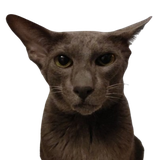
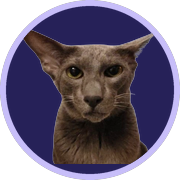
fix: update payment date handling and validation, improve UI elements

diff --git a/validators.js b/validators.js
@@ -50,12 +50,14 @@ export const amount = (v) => {
   return Number.isInteger(n) && n > 0 && n <= 1_000_000;
 };
 
-// now передаётся явно, чтобы поведение не зависело от часов машины при проверке.
+// Дата в формате YYYY-MM-DD. now передаётся явно, чтобы поведение не зависело
+// от часов машины при проверке.
 export const paidAt = (v, now = Date.now()) => {
-  const t = Date.parse(v);
+  if (!/^\d{4}-\d{2}-\d{2}$/.test(String(v ?? ''))) return false;
+  const t = Date.parse(`${v}T00:00:00+03:00`); // дата означает московский день
   if (Number.isNaN(t)) return false;
   const YEAR = 365 * 24 * 3600 * 1000;
-  return t <= now + 24 * 3600 * 1000 && t > now - YEAR; // допускаем сутки на часовые пояса
+  return t <= now + 24 * 3600 * 1000 && t > now - YEAR; // сутки запаса на часовые пояса
 };
 
 export const imageFile = ({ type, size }) =>
@@ -73,7 +75,7 @@ export function validate(type, d, now = Date.now()) {
     if (!amount(d.amount)) e.amount = 'Целое число кредитов больше нуля';
     if (!paymentMethod(d.payment_method)) e.payment_method = 'Выберите способ оплаты';
     else if (!acceptsForm(d.payment_method)) e.payment_method = 'По этому способу оплаты обратитесь в поддержку платёжной системы';
-    if (!paidAt(d.paid_at, now)) e.paid_at = 'Укажите дату и время платежа';
+    if (!paidAt(d.paid_at, now)) e.paid_at = 'Укажите дату платежа';
   } else {
     e.type = 'Неизвестный тип заявки';
   }

diff --git a/api/submit.js b/api/submit.js
@@ -91,7 +91,7 @@ const caption = (row) => {
           `🟡 <b>НЕ ПРИШЁЛ ДОНАТ · #${row.id}</b>`,
           `Сумма: <b>${esc(row.amount)}</b> кредитов`,
           `Оплата: ${esc(row.payment_method)}`,
-          `Когда: ${new Date(row.paid_at).toLocaleString('ru-RU', { timeZone: 'Europe/Moscow' })} МСК`,
+          `Дата: ${new Date(row.paid_at).toLocaleDateString('ru-RU', { timeZone: 'Europe/Moscow' })} (МСК)`,
         ];
 
   lines.push(
@@ -178,7 +178,9 @@ export default async function handler(request) {
       reason: type === 'privilege' ? data.reason : null,
       amount: type === 'donate' ? Number(data.amount) : null,
       payment_method: type === 'donate' ? data.payment_method : null,
-      paid_at: type === 'donate' ? new Date(data.paid_at).toISOString() : null,
+      // Дата приходит без времени и означает московский день - закрепляем это
+      // смещением, иначе UTC сдвинет её на сутки назад.
+      paid_at: type === 'donate' ? new Date(`${data.paid_at}T00:00:00+03:00`).toISOString() : null,
       comment: data.comment?.trim() || null,
       screenshot_url: hasFile ? await upload(file, type) : null,
       ip_hash: ipHash,

diff --git a/index.html b/index.html
@@ -6,6 +6,8 @@
 <title>GambitRP - Помощь игрокам</title>
 <meta name="description" content="Заявки на возврат привилегии и по непришедшему донату GambitRP.">
 <meta name="color-scheme" content="dark">
+<link rel="icon" href="avatar.png" type="image/png" sizes="180x180">
+<link rel="apple-touch-icon" href="avatar.png">
 <link rel="preconnect" href="https://fonts.googleapis.com">
 <link rel="preconnect" href="https://fonts.gstatic.com" crossorigin>
 <link rel="stylesheet" href="https://fonts.googleapis.com/css2?family=JetBrains+Mono:wght@400;600&family=Montserrat:wght@400;500;600;700;800&display=swap">
@@ -171,8 +173,9 @@
         </div>
 
         <div class="field">
-          <label class="label" for="d-paid">Дата и точное время платежа</label>
-          <input id="d-paid" name="paid_at" type="datetime-local">
+          <label class="label" for="d-paid">Дата платежа</label>
+          <p class="hint">По московскому времени.</p>
+          <input id="d-paid" name="paid_at" type="date">
           <small class="err"></small>
         </div>
 

diff --git a/styles.css b/styles.css
@@ -67,13 +67,12 @@ body {
   text-decoration: none;
 }
 
+/* Круг, кольцо и подложка вшиты в саму картинку - она же служит фавиконкой,
+   поэтому фон и рамка здесь не нужны. */
 .mark-badge {
   width: 40px;
   height: 40px;
-  border-radius: 50%;
-  background: var(--accent);
-  object-fit: cover;
-  border: 1px solid var(--border);
+  object-fit: contain;
 }
 
 .mark-text {
@@ -264,7 +263,7 @@ h3 {
 
 input[type="text"],
 input[type="number"],
-input[type="datetime-local"],
+input[type="date"],
 input[type="file"],
 select,
 textarea {
@@ -297,6 +296,10 @@ select {
 option { background: var(--surface-2); color: var(--text); }
 
 input[type="file"] { padding: 9px 12px; cursor: pointer; }
+
+/* Без этого поле даты в WebKit сжимается по содержимому и стоит огрызком. */
+input[type="date"] { min-height: 46px; cursor: pointer; }
+input[type="date"]::-webkit-calendar-picker-indicator { cursor: pointer; filter: invert(0.75); }
 
 input[type="file"]::file-selector-button {
   margin-right: 12px;

diff --git a/app.js b/app.js
@@ -31,6 +31,11 @@ copyButton.addEventListener('click', async () => {
   }
 });
 
+// ── Дата платежа: не позже сегодняшнего дня по Москве ─────────────────
+// en-CA даёт ровно тот формат ГГГГ-ММ-ДД, который ждёт input[type=date].
+$('#d-paid').max = new Intl.DateTimeFormat('en-CA', { timeZone: 'Europe/Moscow' })
+  .format(new Date());
+
 // ── Заполняем списки из общих правил, чтобы варианты не разъезжались ──
 const fill = (select, items) => {
   for (const item of items) select.add(new Option(item, item));

diff --git a/PLAN.md b/PLAN.md
@@ -79,7 +79,7 @@
 | Точная сумма кредитов (без комиссии) | number | да | > 0 |
 | Способ оплаты | select | да | список ниже |
 | Ваш Discord | text | да | - |
-| Дата и примерное время платежа | datetime-local | да *(предложение)* | не в будущем |
+| Дата платежа | date | да | не в будущем, не старше года |
 | Скриншот чека / квитанции | file | да | jpg/png/webp, ≤ 5 МБ |
 
 ### 4.2 Список способов оплаты (как на сайте покупки кредитов)
